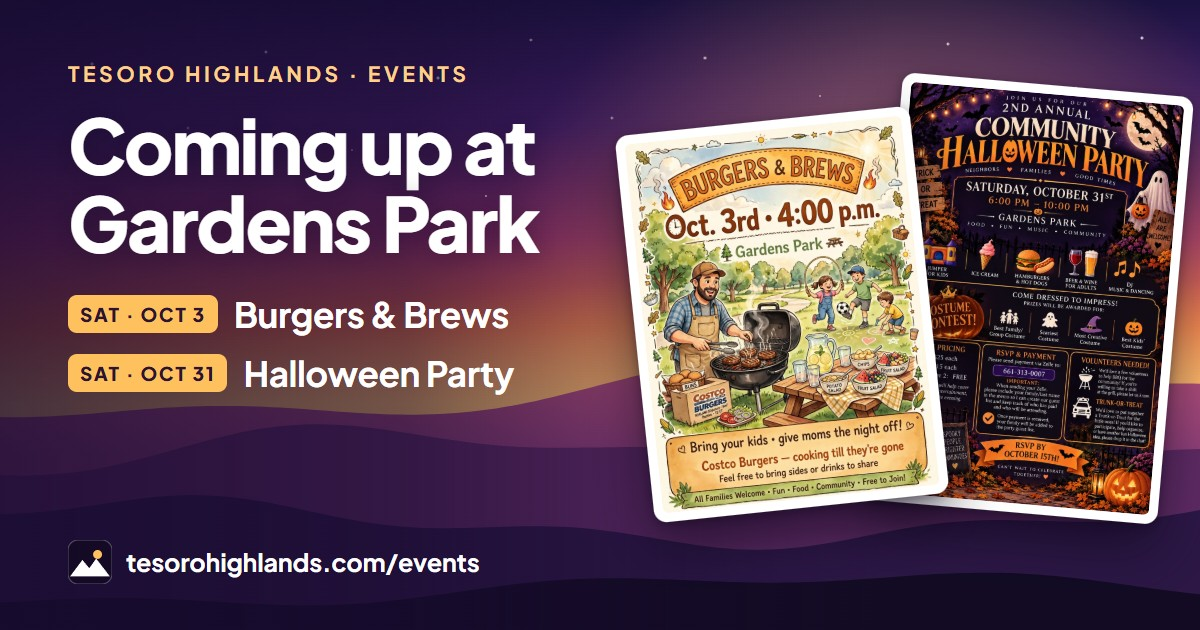
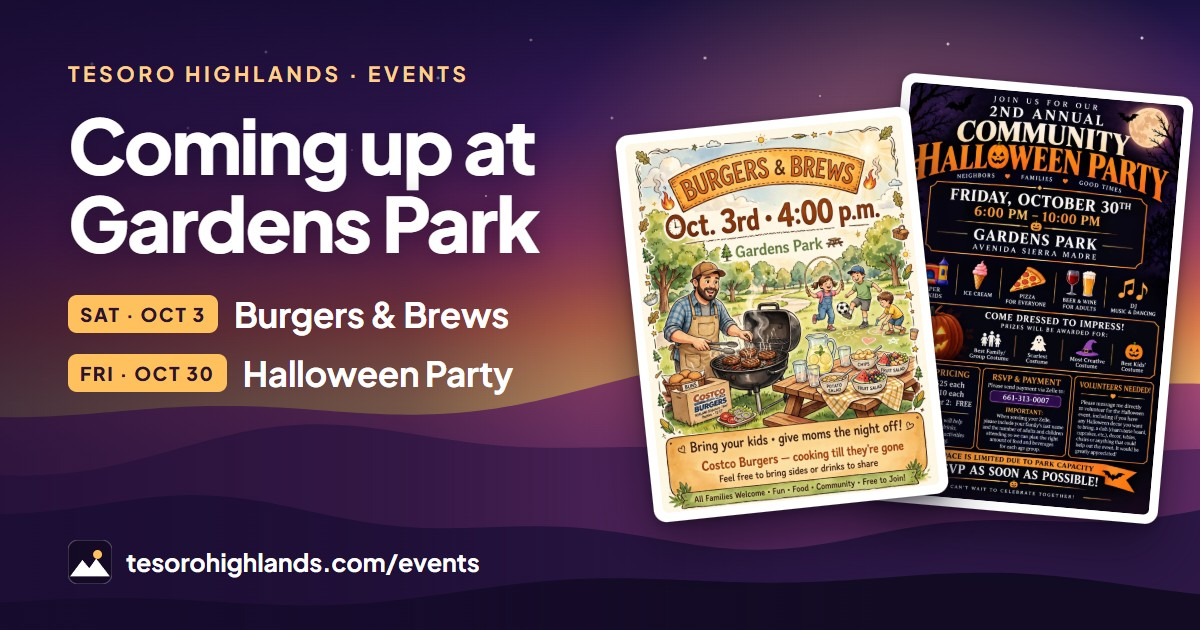
Halloween party: moved to Friday, Oct 30, with the organizer's updated flyer
From the event committee's new flyer, which changed more than the date: Friday Oct 30
(was Saturday Oct 31), 6-10 PM, Gardens Park on Avenida Sierra Madre; pizza for everyone
(was hamburgers and hot dogs); children $10 (was $15); the Zelle memo now asks for the
family's last name and how many adults and children are coming; the Oct 15 deadline is
replaced by 'space is limited due to park capacity, RSVP as soon as possible'; and the
volunteer ask is now decor, a dish, tables and chairs, with no BBQ shift or Trunk-or-Treat.

The new flyer gets a new filename (halloween-2026-oct30.webp) because /img images are
cached for a day plus a week of stale-while-revalidate, and the old one says Oct 31; the
old file is removed. With no deadline to show, featured events gain an optional
'rsvpHead' line, used as the RSVP box heading and on the home page pin when there is no
rsvpBy date (documented in the README schema). The Sept 18 changelog line no longer
advertises the old date, and an Oct 1 line says the party moved. Link-preview cards
regenerated: the Halloween phase now ends Oct 30.

Changed region(s): [[0.74, 0.1206, 0.9867, 0.8143], [0.2158, 0.573, 0.4317, 0.6333], [0.0617, 0.573, 0.185, 0.6032]]

diff --git a/events.html b/events.html
@@ -387,7 +387,7 @@
         var flyer = /^\/[\w\-.\/]+\.(webp|png|jpe?g)$/i.test(e.flyer || "") ? e.flyer : "";
         var zelle = /^[\d\-() +.]{7,20}$/.test(e.zelle || "") ? e.zelle : "";
         var details = Array.isArray(e.details) ? e.details.filter(function (d) { return Array.isArray(d) && d.length === 2; }) : [];
-        if (!flyer && !e.price && !e.rsvp && !zelle && !e.rsvpBy && !details.length) return "";
+        if (!flyer && !e.price && !e.rsvp && !zelle && !e.rsvpBy && !e.rsvpHead && !details.length) return "";
         var h = '<div class="cfeat">';
         if (flyer) {
           h += '<a class="cflyer" href="' + esc(flyer) + '" target="_blank" rel="noopener"><img src="' + esc(flyer) + '" alt="' + esc(e.flyerAlt || ("Flyer for " + e.title)) + '" loading="lazy"' +
@@ -395,13 +395,15 @@
         }
         h += '<div class="cmain">' + (e.note ? "<p>" + esc(e.note) + "</p>" : "") +
           (e.price ? '<p class="cprice">🎟 <b>' + esc(e.price) + "</b>" + (e.priceNote ? "<small>" + esc(e.priceNote) + "</small>" : "") + "</p>" : "") + "</div>";
-        if (e.rsvp || zelle || e.rsvpBy) {
+        if (e.rsvp || zelle || e.rsvpBy || e.rsvpHead) {
           var by = "";
           if (e.rsvpBy) {
             var rb = parseStart(e.rsvpBy).d;
             var rbTxt = rb.toLocaleDateString([], { weekday: "short", month: "short", day: "numeric" });
             by = rb.getTime() >= today.getTime() ? "RSVP by " + rbTxt : "The RSVP deadline was " + rbTxt;
           }
+          // No deadline, just urgency ("Space is limited — RSVP soon"), in the organizer's words.
+          else if (e.rsvpHead) by = String(e.rsvpHead);
           h += '<div class="crsvp">' + (by ? "<b>" + esc(by) + "</b>" : "") +
             (zelle ? '<div class="zrow">Pay by Zelle to <span class="znum">' + esc(zelle) + '</span><button class="copybtn zcopy" type="button" data-num="' + esc(zelle) + '">Copy number</button></div>' : "") +
             (e.rsvp ? "<p>" + esc(e.rsvp) + "</p>" : "") + "</div>";

diff --git a/index.html b/index.html
@@ -300,6 +300,7 @@
         pinned[p.title] = 1;
         var bits = [timeStr(p.date), p.place];
         if (p.rsvpBy && ymd(p.rsvpBy) >= day0) bits.push("RSVP by " + ymd(p.rsvpBy).toLocaleDateString([], { month: "short", day: "numeric" }));
+        else if (p.rsvpHead) bits.push(String(p.rsvpHead));
         return '<a class="wkrow wkpin" href="/events#community"><span class="wkt">' + esc(String(p.emoji || "📌").slice(0, 4)) + " <b>" +
           esc(ymd(p.date).toLocaleDateString([], { weekday: "short", month: "short", day: "numeric" })) + "</b> · " + esc(p.title) +
           "<small>" + esc(bits.filter(Boolean).join(" · ")) + " →</small></span></a>";

diff --git a/README.md b/README.md
@@ -191,9 +191,10 @@ Optional, for a featured neighborhood event (the Halloween party entry is the wo
 example): `featured` (true lifts the Community section to the top of /events and pins
 the event atop the home page's "Coming up" card until its date passes), `emoji`,
 `flyer` (a same-site image under `/img/`, plus `flyerW` / `flyerH` / `flyerAlt`),
-`price`, `priceNote`, `rsvpBy` (YYYY-MM-DD), `zelle`, `rsvp`, `detailsLabel`,
+`price`, `priceNote`, `rsvpBy` (YYYY-MM-DD) or, with no deadline, `rsvpHead` (a short
+urgency line such as "Space is limited — RSVP soon"), `zelle`, `rsvp`, `detailsLabel`,
 `details` (`[["Label", "Text"], …]`) and `host`. `date` may carry a start time
-(`2026-10-31T18:00`). A flyer is text-as-image, so everything on it must also be in
+(`2026-10-30T18:00`). A flyer is text-as-image, so everything on it must also be in
 the text fields. Only publish a phone number or payment handle with the organizer's OK.
 
 ### Share cards (link previews)
